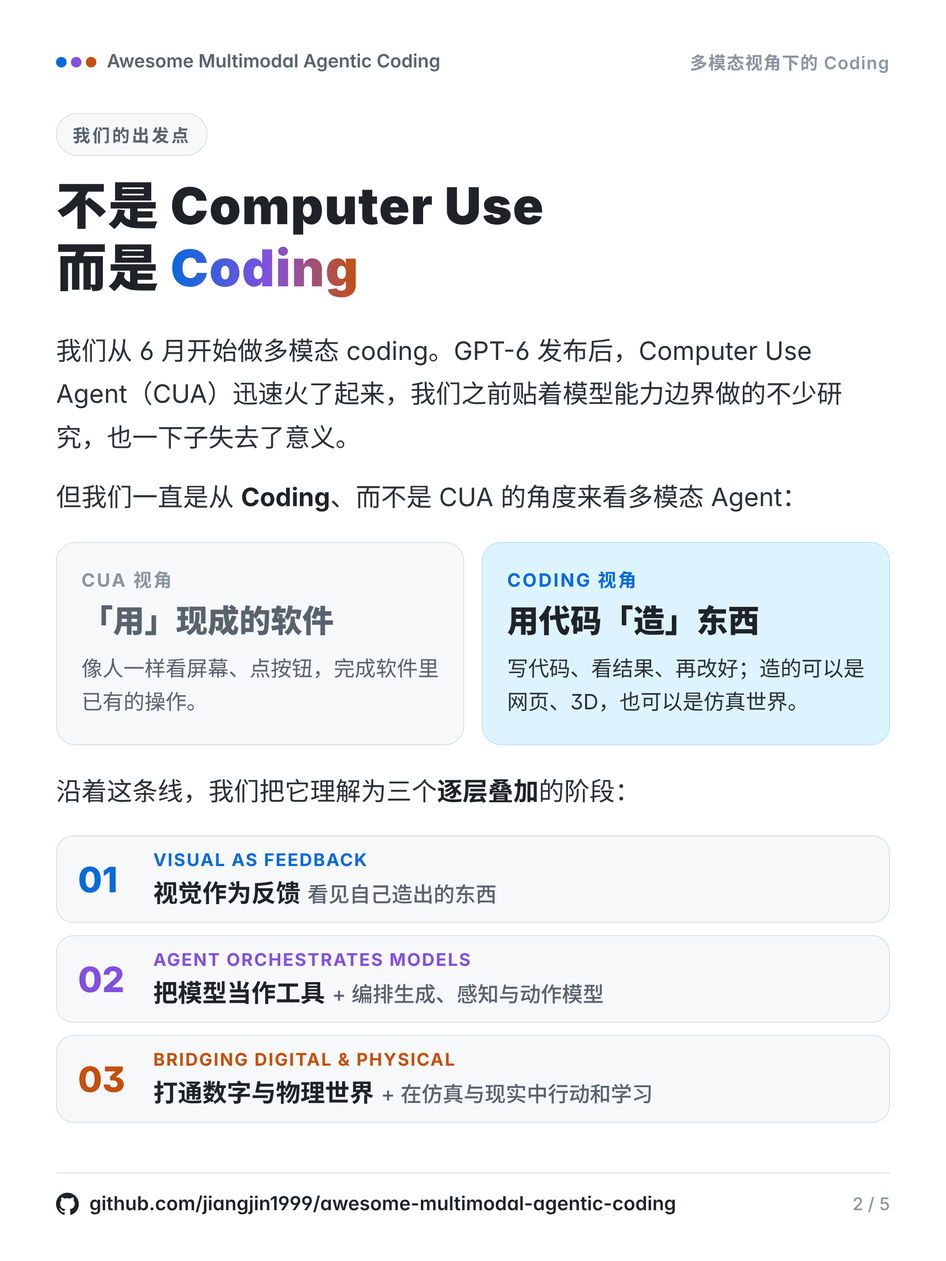
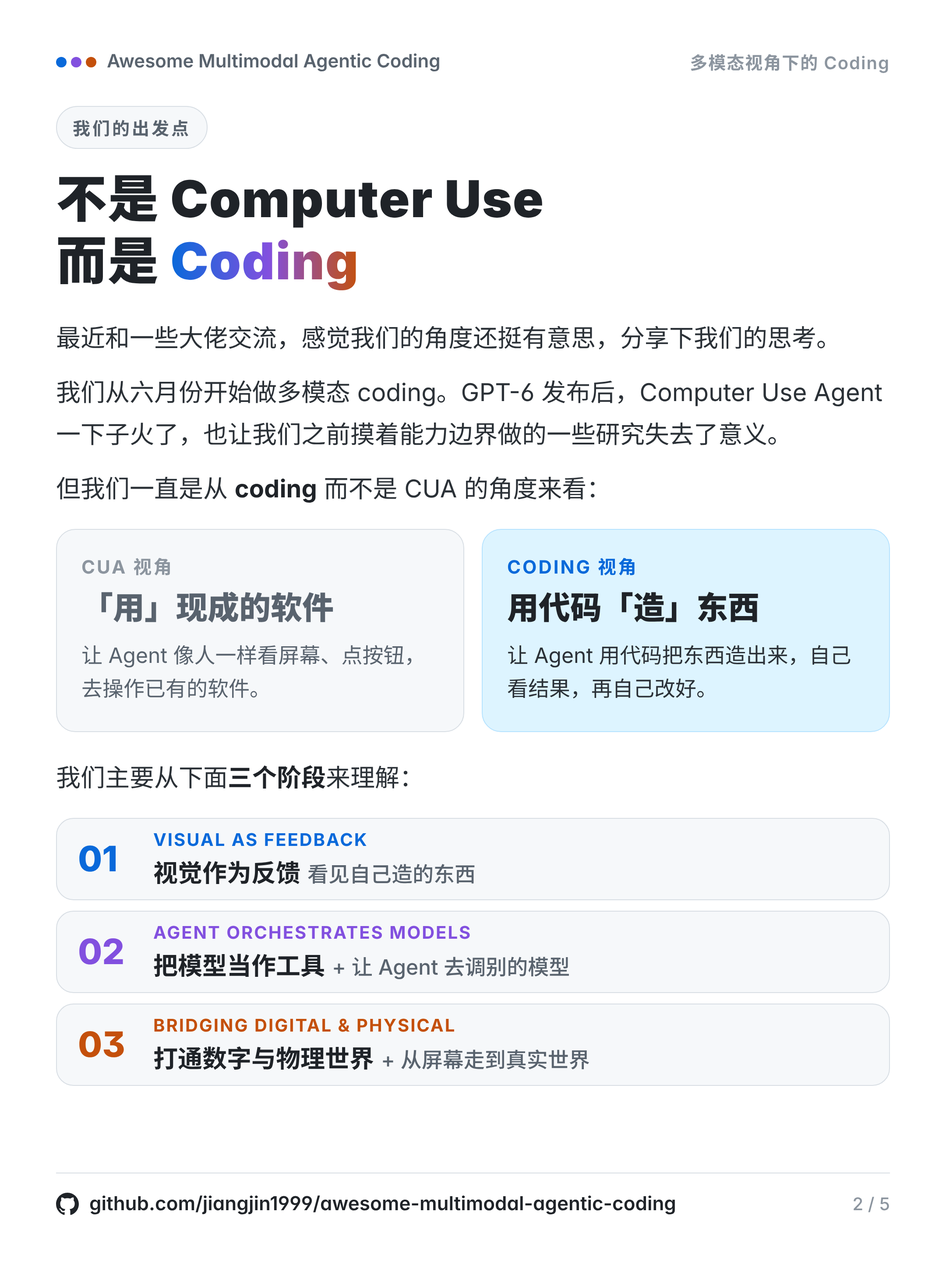
Make the promo copy conversational and closer to the original draft
Rewrite the post, the blurbs and the text in the images to keep the
author's own wording and a spoken tone, and keep the stage 3 section in
the same voice.

Claude-Session: https://claude.ai/code/session_01PZLRnhK6KdyKQiDbpVhFsH

Changed region(s): [[0.062, 0.0938, 0.9616, 0.6562], [0.062, 0.5938, 0.6824, 0.875], [0.0931, 0.4375, 0.4653, 0.5625]]

diff --git a/promo/gen.js b/promo/gen.js
@@ -103,6 +103,7 @@ b,strong{font-weight:700}
 .close{margin-top:30px;font-size:34px;font-weight:800;line-height:1.4}
 .s1 .body,.s2 .body{font-size:31px}.s1 .box,.s2 .box{margin-top:28px}.s1 .box .v,.s2 .box .v{font-size:29px}.s1 .tags,.s2 .tags{margin-top:30px}
 .s2 .body{font-size:32px}.s2 .box{margin-top:34px;padding:26px 30px 28px}.s2 .pair{margin-top:34px}.s2 .pair .box{margin-top:0}.s2 .box .v{font-size:30px}.s2 .tags{margin-top:38px}.s2 .tag{font-size:23px;padding:8px 18px}
+.why .head{margin-top:36px}.why .body{font-size:28px;margin-top:28px}.why .body p+p{margin-top:14px}.why .vs{margin-top:22px}.why .road{gap:12px;margin-top:22px}.why .step{padding:12px 24px}
 .s3 .lines .ln .dd{font-size:28px}.s3 .lines .ln{margin-top:24px}.s3 .box .v{font-size:28px}
 `;
 
@@ -119,15 +120,15 @@ const panelDiagram = (i) => crop('diag', 100 + 1020 * i + 40, 500, 880, 830, 350
 
 function cover(qrSvg) {
   const cols = [
-    ['01', '视觉作为反馈', '看见自己造出的东西，<br>coding loop 闭合'],
-    ['02', '把模型当作工具', '编排生成、感知<br>与动作模型'],
-    ['03', '打通数字与物理世界', '用代码构建仿真、<br>驱动机器人'],
+    ['01', '视觉作为反馈', '看见自己造的东西，<br>模型才能 loop 起来'],
+    ['02', '把模型当作工具', '让 Agent 去调生成、<br>感知和动作模型'],
+    ['03', '打通数字与物理世界', '用代码搭仿真、控机器人，<br>从屏幕走到真实世界'],
   ];
   return `<div class="page">
   ${topbar('<span class="agi">TOWARD PHYSICAL AGI</span>')}
   <h1 class="big"><span class="l1">多模态视角下的</span><span class="l2 grad">Coding</span></h1>
   <div class="sub">扩展 Agent 能力边界，最终通向物理 AGI</div>
-  <div class="idea">从 <b>Coding</b> 而非 CUA 的视角看多模态 Agent：<b>写代码 → 看结果 → 再改进</b></div>
+  <div class="idea">我们从 <b>Coding</b> 而不是 CUA 的角度看：<b>写代码 → 看结果 → 再改</b></div>
   ${crop('heroWrap', 96, 256, 3008, 1176, 952)}
   <div class="cols">${cols.map(([n, t, d], i) => `<div class="col"><div class="t"><span style="color:${C.acc[i]}">${n}</span>&nbsp; ${t}</div><div class="d">${d}</div></div>`).join('')}</div>
   <div class="foot">
@@ -140,25 +141,26 @@ function cover(qrSvg) {
 
 function why() {
   const steps = [
-    ['01', 'VISUAL AS FEEDBACK', '视觉作为反馈', '看见自己造出的东西'],
-    ['02', 'AGENT ORCHESTRATES MODELS', '把模型当作工具', '+ 编排生成、感知与动作模型'],
-    ['03', 'BRIDGING DIGITAL &amp; PHYSICAL', '打通数字与物理世界', '+ 在仿真与现实中行动和学习'],
+    ['01', 'VISUAL AS FEEDBACK', '视觉作为反馈', '看见自己造的东西'],
+    ['02', 'AGENT ORCHESTRATES MODELS', '把模型当作工具', '+ 让 Agent 去调别的模型'],
+    ['03', 'BRIDGING DIGITAL &amp; PHYSICAL', '打通数字与物理世界', '+ 从屏幕走到真实世界'],
   ];
-  return `<div class="page">
+  return `<div class="page why">
   ${topbar('<span class="pageno">多模态视角下的 Coding</span>')}
   <div class="head"><div>
     <span class="chip" style="background:${C.card};color:${C.sub};border:1.5px solid ${C.stroke}">我们的出发点</span>
     <div class="h1">不是 Computer Use<br>而是 <span class="grad">Coding</span></div>
   </div></div>
   <div class="body">
-    <p>我们从 6 月开始做多模态 coding。GPT-6 发布后，Computer Use Agent（CUA）迅速火了起来，我们之前贴着模型能力边界做的不少研究，也一下子失去了意义。</p>
-    <p>但我们一直是从 <em>Coding</em>、而不是 CUA 的角度来看多模态 Agent：</p>
+    <p>最近和一些大佬交流，感觉我们的角度还挺有意思，分享下我们的思考。</p>
+    <p>我们从六月份开始做多模态 coding。GPT-6 发布后，Computer Use Agent 一下子火了，也让我们之前摸着能力边界做的一些研究失去了意义。</p>
+    <p>但我们一直是从 <em>coding</em> 而不是 CUA 的角度来看：</p>
   </div>
   <div class="vs">
-    <div class="side" style="background:${C.card}"><div class="lab" style="color:${C.faint}">CUA 视角</div><div class="q" style="color:${C.sub}">「用」现成的软件</div><div class="d">像人一样看屏幕、点按钮，完成软件里已有的操作。</div></div>
-    <div class="side" style="background:${C.tint[0]};border-color:#B6E3FF"><div class="lab" style="color:${C.acc[0]}">CODING 视角</div><div class="q">用代码「造」东西</div><div class="d" style="color:#2B3137">写代码、看结果、再改好；造的可以是网页、3D，也可以是仿真世界。</div></div>
+    <div class="side" style="background:${C.card}"><div class="lab" style="color:${C.faint}">CUA 视角</div><div class="q" style="color:${C.sub}">「用」现成的软件</div><div class="d">让 Agent 像人一样看屏幕、点按钮，去操作已有的软件。</div></div>
+    <div class="side" style="background:${C.tint[0]};border-color:#B6E3FF"><div class="lab" style="color:${C.acc[0]}">CODING 视角</div><div class="q">用代码「造」东西</div><div class="d" style="color:#2B3137">让 Agent 用代码把东西造出来，自己看结果，再自己改好。</div></div>
   </div>
-  <div class="body" style="margin-top:28px"><p>沿着这条线，我们把它理解为三个<em>逐层叠加</em>的阶段：</p></div>
+  <div class="body" style="margin-top:28px"><p>我们主要从下面<em>三个阶段</em>来理解：</p></div>
   <div class="road">${steps.map(([n, e, z, d], i) => `<div class="step"><div class="n" style="color:${C.acc[i]}">${n}</div><div><div class="e" style="color:${C.acc[i]}">${e}</div><div class="z">${z}<span>${d}</span></div></div></div>`).join('')}</div>
   ${mini(2)}
 </div>`;
@@ -178,36 +180,36 @@ function stage(i, { en, title, plus, body, n }) {
 }
 
 const s1 = stage(0, {
-  n: 3, en: 'VISUAL AS FEEDBACK', title: '视觉反馈，<br>让 coding loop<br>跑起来', plus: '+ sees what it builds',
-  body: `<div class="body"><p>相比一般的 coding agent，多模态 coding agent 的关键是有<em>视觉反馈</em>：写代码 → 渲染或运行 → 观察结果 → 决定下一步怎么改。这一点极大地扩展了 Agent 的能力边界。</p></div>
+  n: 3, en: 'VISUAL AS FEEDBACK', title: '有了视觉反馈，<br>模型才能<br>loop 起来', plus: '+ sees what it builds',
+  body: `<div class="body"><p>相比于一般的 coding agent，多模态 coding agent 的关键就是有<em>视觉反馈</em>，这一点极大地扩展了 agent 的能力边界——只要能跑出来、看得见，就能放进这个 loop 里。</p></div>
   <div class="box"><div class="k" style="color:${C.acc[0]}">基础 · 原子多模态能力</div>
-    <div class="atoms"><div class="atom"><div class="a">Perception</div><div class="b">看得准</div></div><div class="atom"><div class="a">Grounding</div><div class="b">定位得准</div></div><div class="atom"><div class="a">Diff</div><div class="b">比得出差异</div></div></div>
-    <div class="v">精准的反馈，让 coding loop 能稳定地跑起来。</div></div>
-  <div class="box"><div class="k" style="color:${C.acc[0]}">从 workflow 到 agent</div>
-    <div class="v">以前通过各种 workflow 也能引入视觉反馈；但在 Agent 场景下，模型不再只是做 VQA，而是<b>自主地对比、定位问题</b>，并对整个「多模态 repo」（代码 + 素材 + 渲染结果）持续优化。</div></div>
+    <div class="atoms"><div class="atom"><div class="a">Perception</div><div class="b">看得准</div></div><div class="atom"><div class="a">Grounding</div><div class="b">找得到</div></div><div class="atom"><div class="a">Diff</div><div class="b">比得出差别</div></div></div>
+    <div class="v">反馈够精准，coding loop 才能更好地跑起来。</div></div>
+  <div class="box"><div class="k" style="color:${C.acc[0]}">不只是 VQA 了</div>
+    <div class="v">在这之前，通过各种 workflow 也能带来 visual feedback；但在 agent 场景下，模型不只是做 VQA 了，它可以<b>自主地去对比</b>，并对整个「多模态 repo」进行优化。</div></div>
   <div class="tags">${['网页与 UI', '图表与科学可视化', '文档 · 幻灯片 · 海报', '3D 与 CAD', '游戏'].map((t) => `<span class="tag">${t}</span>`).join('')}</div>`,
 });
 
 const s2 = stage(1, {
-  n: 4, en: 'AGENT ORCHESTRATES MODELS', title: '编排模型，<br>进一步扩展<br>能力边界', plus: '+ calls models as tools',
-  body: `<div class="body"><p>视觉反馈让 Agent 拥有了巨大的多模态任务空间。但如果 Agent 只能自己看、自己做，不仅会有长上下文带来的幻觉，还可能需要极大量的计算。<em>把其他模型当作工具调用</em>，可以有效改善这两点。</p></div>
+  n: 4, en: 'AGENT ORCHESTRATES MODELS', title: '让 Agent<br>去调<br>别的模型', plus: '+ calls models as tools',
+  body: `<div class="body"><p>视觉反馈让 agent 拥有了极大的多模态任务空间。但如果 agent 只能自己看、自己做，不仅会有长上下文带来的幻觉，也可能需要极大量的计算——<em>把其他模型当工具来调</em>，就能有效改善。</p></div>
   <div class="pair">
-    <div class="box"><div class="k" style="color:${C.acc[1]}">输入端 · 替 Agent 看</div><div class="v">调用更擅长的感知模型（检测、分割、深度、重建……），从不同维度提供观察。</div></div>
-    <div class="box"><div class="k" style="color:${C.acc[1]}">输出端 · 替 Agent 做</div><div class="v">调用生成模型做 mask 重绘、基于白模给出构图；调用 action model 操控机械臂。</div></div>
+    <div class="box"><div class="k" style="color:${C.acc[1]}">输入 · 帮 Agent 看</div><div class="v">用更擅长的模型，从不同维度给 agent 提供观察，比如检测、分割、深度、重建。</div></div>
+    <div class="box"><div class="k" style="color:${C.acc[1]}">输出 · 帮 Agent 做</div><div class="v">调生成模型来做 mask 重绘、基于白模给出构图；调 action model 来操控机械臂。</div></div>
   </div>
-  <div class="box" style="background:${C.tint[1]};border-color:#D8CCF8"><div class="v"><b>代码是胶水：</b>Agent 用代码选择、组合这些模型，并根据反馈修改整个工作流——既扩展了能力边界，也提高了效率。</div></div>
+  <div class="box" style="background:${C.tint[1]};border-color:#D8CCF8"><div class="v"><b>一句话：</b>Agent 负责想和写代码，专业的「看」和「做」交给更擅长的模型——能力边界更大，效率也更高。</div></div>
   <div class="tags">${['图像生成', '视频生成', '3D 生成', '世界模型', '感知模型', '动作模型'].map((t) => `<span class="tag">${t}</span>`).join('')}</div>`,
 });
 
 const s3 = stage(2, {
-  n: 5, en: 'BRIDGING DIGITAL &amp; PHYSICAL', title: '用代码打通<br>数字世界<br>与物理世界', plus: '+ acts in simulation and reality',
-  body: `<div class="body" style="margin-top:28px"><p>前两个阶段不断扩展 coding agent 在数字世界里的能力边界；第三阶段，这个闭环走进物理世界。这也是仓库里最大、增长最快的部分。</p></div>
+  n: 5, en: 'BRIDGING DIGITAL &amp; PHYSICAL', title: '把 loop<br>带进<br>物理世界', plus: '+ acts in simulation and reality',
+  body: `<div class="body" style="margin-top:28px"><p>前两个阶段扩展的，都还是数字世界里的能力边界。第三个阶段，我们想把 loop 带进物理世界——这也是仓库里最大、涨得最快的一块。</p></div>
   <div class="lines">
-    <div class="ln"><div class="no" style="color:${C.acc[2]}">①</div><div><div class="tt">代码驱动行动<span style="color:${C.acc[2]}">DIGITAL → PHYSICAL</span></div><div class="dd">通过代码调用感知与运动接口操控机器人，观察相机与力反馈，再改下一步动作：「看结果改代码」变成「看动作结果改策略」。</div></div></div>
-    <div class="ln"><div class="no" style="color:${C.acc[2]}">②</div><div><div class="tt">代码构建仿真<span style="color:${C.acc[2]}">REAL → SIM</span></div><div class="dd">从真实视频与观测出发，把场景、物体、关节和物理参数写成可执行的仿真器；它可以和真实录像对照，也可以改条件重跑。</div></div></div>
-    <div class="ln"><div class="no" style="color:${C.acc[2]}">③</div><div><div class="tt">在仿真里练，回现实用<span style="color:${C.acc[2]}">SIM → REAL</span></div><div class="dd">在可验证的环境里造数据、积累经验与 skills、预演失败恢复，甚至只用仿真轨迹做后训练，再把能力带回真机。</div></div></div>
+    <div class="ln"><div class="no" style="color:${C.acc[2]}">①</div><div><div class="tt">用代码去动手<span style="color:${C.acc[2]}">DIGITAL → PHYSICAL</span></div><div class="dd">让 agent 自己写 Python、调 ROS 控制机器人，看相机画面和力反馈再改下一步。「看结果改代码」变成了「看动作结果改策略」。</div></div></div>
+    <div class="ln"><div class="no" style="color:${C.acc[2]}">②</div><div><div class="tt">把真实世界「搬」进仿真<span style="color:${C.acc[2]}">REAL → SIM</span></div><div class="dd">拿一段真实视频，让 agent 把场景、物体、关节、物理参数写成能跑的仿真器，还能和录像对比、改条件再跑一遍。</div></div></div>
+    <div class="ln"><div class="no" style="color:${C.acc[2]}">③</div><div><div class="tt">在仿真里练，再回到现实<span style="color:${C.acc[2]}">SIM → REAL</span></div><div class="dd">自己造数据、攒经验和 skills，先在数字孪生里把失败恢复练一遍，甚至只靠仿真轨迹做后训练，再带回真机。</div></div></div>
   </div>
-  <div class="box" style="background:${C.tint[2]};border-color:#FFD8B5;margin-top:24px"><div class="v"><b>构建可验证的环境 → 收集交互经验 → 提升 Agent。</b>代码可执行、可检查、可编辑、可组合，是连接感知、生成、行动与仿真的共同语言——这条路最终通向物理 AGI。</div></div>`,
+  <div class="box" style="background:${C.tint[2]};border-color:#FFD8B5;margin-top:24px"><div class="v"><b>说到底是同一个 loop：</b>搭能验证的环境 → 收集交互经验 → 让 agent 变强。代码能跑、能查、能改、能组合，刚好把感知、生成、行动和仿真串起来——这条路最终通向物理 AGI。</div></div>`,
 });
 
 (async () => {

diff --git a/promo/post.zh-CN.md b/promo/post.zh-CN.md
@@ -9,42 +9,43 @@
 ```text
 多模态视角下的 Coding
 
-GPT-6 之后，Computer Use Agent 火了。但我们一直从 Coding、而不是 CUA 的角度看多模态 Agent：
-CUA 关心 Agent 怎么「用」现成的软件；我们关心 Agent 怎么用代码「造」东西，看见结果，再把它改好。
+最近和一些大佬交流，感觉我们的角度还挺有意思，分享一下～
 
-我们把这条路分成三个逐层叠加的阶段：
-1⃣ Visual as Feedback：看见自己造出的东西，coding loop 闭合起来
-2⃣ Agent Orchestrates Models：把生成、感知、动作模型当作工具调用
-3⃣ Bridging Digital & Physical：用代码构建仿真、驱动机器人，Real2Sim2Real
+GPT-6 之后 Computer Use Agent 火了，但我们一直是从 coding 而不是 CUA 的角度来看：不只是让 Agent 去「用」软件，而是让它用代码把东西「造」出来，自己看结果，再自己改。
 
-扩展 Agent 的能力边界，最终通向物理 AGI。
-我们把相关工作整理成了 Awesome Multimodal Agentic Coding：664 项工作，中 / 英 / 日三语，持续更新 👇
+我们把这条路分成三步：
+1⃣ Visual as Feedback：有了视觉反馈，模型才能真正 loop 起来
+2⃣ Agent Orchestrates Models：让 Agent 去调生成、感知、动作模型，能力边界再往外扩
+3⃣ Bridging Digital & Physical：用代码搭仿真、控机器人，从屏幕走到真实世界
+
+扩展 Agent 能力边界，最终通向物理 AGI。
+相关工作都整理在这儿了（664 项，中英日三语，持续更新）👇
 https://github.com/jiangjin1999/awesome-multimodal-agentic-coding
 ```
 
 ### 中文短版（X 免费账号，280 字符限制内）
 
-X 上一个汉字算 2 个字符，链接固定算 23 个。这一版约 230 / 280。
+X 上一个汉字算 2 个字符，链接固定算 23 个。这一版约 209 / 280。
 
 ```text
 多模态视角下的 Coding：
-不从 Computer Use，而从 Coding 看多模态 Agent，分三个阶段：
-1 视觉反馈，让 coding loop 闭合
-2 编排模型，把模型当作工具
-3 用代码打通仿真与现实
-扩展 Agent 能力边界，最终通向物理 AGI 👇
+我们一直从 coding 而不是 CUA 的角度看多模态 Agent，分三步：
+1 有了视觉反馈，模型才能 loop 起来
+2 让 Agent 去调别的模型
+3 用代码打通仿真和现实
+最终通向物理 AGI 👇
 https://github.com/jiangjin1999/awesome-multimodal-agentic-coding
 ```
 
-### English（X，约 272 / 280）
+### English（X，约 278 / 280）
 
 ```text
-Coding, seen through a multimodal lens:
-agents that write code, see what it builds, and improve it.
+We look at multimodal agents from a coding angle, not computer use:
+agents write code, see what it builds, and fix it.
 01 Visual as feedback
 02 Orchestrating models as tools
 03 Bridging digital & physical worlds
-Toward physical AGI. 664 works, updated continuously 👇
+Toward physical AGI. 664 works, growing 👇
 https://github.com/jiangjin1999/awesome-multimodal-agentic-coding
 ```
 
@@ -54,9 +55,9 @@ https://github.com/jiangjin1999/awesome-multimodal-agentic-coding
 |---|---|---|
 | 1 | [`00-cover.png`](images/00-cover.png) | 封面：大字「多模态视角下的 Coding」、仓库头图、三阶段、链接与二维码 |
 | 2 | [`01-why-coding.png`](images/01-why-coding.png) | 出发点：不是 Computer Use，而是 Coding |
-| 3 | [`02-stage1-visual-feedback.png`](images/02-stage1-visual-feedback.png) | 01 Visual as Feedback |
-| 4 | [`03-stage2-orchestrate-models.png`](images/03-stage2-orchestrate-models.png) | 02 Agent Orchestrates Models |
-| 5 | [`04-stage3-digital-physical.png`](images/04-stage3-digital-physical.png) | 03 Bridging Digital & Physical Worlds |
+| 3 | [`02-stage1-visual-feedback.png`](images/02-stage1-visual-feedback.png) | 01 有了视觉反馈，模型才能 loop 起来 |
+| 4 | [`03-stage2-orchestrate-models.png`](images/03-stage2-orchestrate-models.png) | 02 让 Agent 去调别的模型 |
+| 5 | [`04-stage3-digital-physical.png`](images/04-stage3-digital-physical.png) | 03 把 loop 带进物理世界 |
 
 尺寸都是 2160 × 2880（3:4）。小红书、即刻可以 5 张全发。X 每条最多 4 张：主帖放 1、3、4、5，第 2 张的内容已经写进正文；也可以把第 2 张放进回复。
 
@@ -66,62 +67,57 @@ https://github.com/jiangjin1999/awesome-multimodal-agentic-coding
 
 ### 多模态视角下的 Coding｜Awesome Multimodal Agentic Coding
 
-**扩展 Agent 的能力边界，最终通向物理 AGI**
+**扩展 Agent 能力边界，最终通向物理 AGI**
 
-最近和几位大佬交流，大家觉得我们看问题的角度还挺有意思，所以整理出来分享一下。
+最近和一些大佬交流，感觉我们的角度还挺有意思的，所以分享下我们的思考。
 
-我们从 6 月开始做多模态 coding 相关的任务。GPT-6 发布后，Computer Use Agent（CUA）迅速火了起来，我们之前贴着模型能力边界做的不少研究，也一下子失去了意义。
+我们从六月份开始做多模态 coding 相关的任务。GPT-6 发布后，Computer Use Agent 一下子火了，也让我们之前摸着能力边界做的一些研究失去了意义。
 
-但我们一直是从 **Coding**、而不是 CUA 的角度来看多模态 Agent：
+但我们一直是从 coding 的角度、而不是 CUA 的角度来看这件事。说白了，CUA 关心的是 Agent 怎么去「用」现成的软件；我们更关心的是 Agent 怎么用代码把东西「造」出来，自己看结果，再自己改好。
 
-- **CUA 视角**：Agent 像人一样「用」现成的软件，看屏幕、点按钮，完成软件里已有的操作；
-- **Coding 视角**：Agent 用代码「造」东西，看见运行的结果，再把它改好。造出的可以是网页、3D，也可以是仿真世界。
+我们主要从下面三个阶段来理解。
 
-沿着这条线，我们把多模态 Agentic Coding 理解为三个逐层叠加的阶段。
+#### 1 - Visual as Feedback：有了视觉反馈，模型才能 loop 起来
 
-#### 01 Visual as Feedback：视觉反馈，让 coding loop 跑起来
+视觉反馈和 perception 能力的提升，让模型可以真正 loop 起来。
 
-相比一般的 coding agent，多模态 coding agent 的关键是有**视觉反馈**：写代码 → 渲染或运行 → 观察结果 → 决定下一步怎么改。这一点极大地扩展了 Agent 的能力边界：网页与 UI、图表、文档与幻灯片、3D 与 CAD、游戏……凡是运行出来能被看见的东西，都可以进入这个闭环。
+相比于一般的 coding agent，多模态 coding agent 的关键就是有视觉反馈，这一点极大地扩展了 agent 的能力边界。网页、图表、PPT、3D/CAD、游戏……只要能跑出来、看得见，就能放进这个 loop 里。
 
-其中，perception、grounding、diff 等原子多模态能力是基础：看得准、定位得准、比得出差异，反馈才精准，coding loop 才能稳定地跑起来。
+其中，perception、grounding 以及 diff 这些原子多模态能力是基础：看得准、找得到、比得出差别。反馈够精准，coding loop 才能更好地跑起来。
 
-在此之前，通过各种 workflow 也能引入视觉反馈；但在 Agent 场景下，模型不再只是做 VQA，而是能自主地对比、定位问题，并对整个「多模态 repo」（代码 + 素材 + 渲染结果）持续优化。
+当然，在这之前通过各种 workflow 也能带来 visual feedback；但在 agent 场景下，模型不只是做 VQA 了，它可以自主地去对比，并且对整个「多模态 repo」进行优化。
 
-#### 02 Agent Orchestrates Models：编排模型，进一步扩展能力边界
+#### 2 - Agent Orchestrates Models：让 Agent 去调别的模型
 
-视觉反馈让 Agent 拥有了巨大的多模态任务空间。但如果 Agent 只能自己看、自己做，不仅会有长上下文带来的幻觉，还可能需要极大量的计算。把其他模型当作工具调用，可以有效改善这两点。
+Agent 去 orchestrate 各种模型（生成模型、action model 等），进一步扩展了能力边界，也提高了效率。
 
-Orchestration 同时体现在输入和输出两端：
+视觉反馈让 agent 拥有了极大的多模态任务空间。但如果 agent 只能自己看、自己做，不仅会有长上下文带来的幻觉，也可能需要极大量的计算；把其他模型当作工具来调，就能有效改善。
 
-- **输入端**：调用更擅长的模型（检测、分割、深度、重建等感知模型），从不同维度提供观察；
-- **输出端**：调用生成模型做 mask 重绘、基于白模给出构图，或生成视频、3D 与可交互的世界；也可以调用 action model 来操控机械臂。
+orchestration 既体现在输入，也体现在输出：
 
-代码在这里是胶水：Agent 用代码选择、组合这些模型，并根据反馈修改整个工作流。这既扩展了能力边界，也提高了效率。
+- **输入**：用更擅长的模型，从不同维度给 agent 提供观察，比如检测、分割、深度、重建；
+- **输出**：调生成模型来做 mask 重绘、基于白模给出构图；也可以调 action model 来操控机械臂。
 
-#### 03 Bridging Digital & Physical Worlds：用代码打通数字世界与物理世界
+一句话：agent 负责想和写代码，专业的「看」和「做」交给更擅长的模型。
 
-前两个阶段不断扩展 coding agent 在数字世界里的能力边界；到第三个阶段，这个闭环走进了物理世界。这也是我们仓库目前最大、增长最快的部分：664 项工作中有 318 项属于这一阶段，2026 年下半年新增的就有 200 项。
+#### 3 - Bridging Digital World & Physical World：把 loop 带进物理世界
 
-我们看到三条主线：
+前两个阶段不断扩展着 coding agent 的能力边界，但都还在数字世界里。第三个阶段，我们想把这个 loop 带进物理世界。这也是我们仓库里现在最大、涨得最快的一块：664 项工作里有 318 项在这个阶段，光 2026 年下半年就新增了 200 项。
 
-**① 代码驱动行动（Digital → Physical）。** 从 Code as Policies 开始，Agent 就在用代码调用感知与运动接口来操控机器人。最近一批 robot-use agent 和 embodied harness 让通用 coding agent 直接写 Python、调 ROS，观察相机画面与力反馈，再修改下一步动作。阶段一的「看结果改代码」，在这里变成了「看动作结果改策略」。同样的闭环也延伸到 PCB 布线、软体机器人设计和科学实验。
+我们觉得大概有三件事在同时发生：
 
-**② 代码构建仿真（Real → Sim）。** Agent 从真实视频和观测出发，把场景、物体、关节和物理参数写成可执行的仿真器。仿真器本身就是一个「多模态 repo」：可以和真实录像对照，也可以改变条件重新跑。为此我们整理了一套仿真器质量的检验层级：从「看起来像」「静止时合理」「能交互」「动起来对」，一直到「在仿真里排第一的策略，到真机上是否仍排第一」，每一层拆穿一种「假仿真」。
+**一是用代码去动手（Digital → Physical）。** 从 Code as Policies 开始，大家就在用代码调感知和运动接口来控制机器人。最近一批 robot-use agent 更直接，让通用 coding agent 自己写 Python、调 ROS，看相机画面和力反馈，再改下一步动作。第一阶段的「看结果改代码」，到这里就变成了「看动作结果改策略」。PCB 布线、软体机器人设计、科学实验，也都开始用上了这套 loop。
 
-**③ 在仿真里练，回到现实用（Sim → Real）。** 有了可验证的环境，Agent 就能自己造数据，积累经验、记忆与 skills，在数字孪生里先预演失败恢复，甚至只靠仿真里的成功轨迹给小模型做后训练，再把能力带回真机。
+**二是用代码把真实世界「搬」进仿真（Real → Sim）。** 拿一段真实视频，让 agent 把场景、物体、关节、物理参数写成能跑的仿真器。仿真器本身就是一个「多模态 repo」：能拿来和真实录像对比，也能改改条件再跑一遍。不过仿真到底像不像，是个大问题。所以我们在仓库里整理了一套检验层级：从「看起来像」，到「放着不动合理」「碰一下有反应」「动起来对」，最后到「在仿真里最好的策略，到真机上是不是也最好」。每一层拆穿一种「假仿真」。
 
-从代码的角度看，这三条线是同一个闭环：**构建可验证的环境 → 收集交互经验 → 提升 Agent**。代码可执行、可检查、可编辑、可组合，因此能成为连接感知、生成、行动与仿真的共同语言。
+**三是在仿真里练，再回到现实（Sim → Real）。** 有了能验证的环境，agent 就可以自己造数据，攒经验和 skills，先在数字孪生里把失败恢复练一遍，甚至只靠仿真里的成功轨迹给小模型做后训练，再把能力带回真机。
 
-#### 结语
+这三件事其实是同一个 loop：搭一个能验证的环境 → 在里面收集交互经验 → 让 agent 变强。代码能跑、能检查、能改、能组合，刚好可以把感知、生成、行动和仿真串起来。
 
-三个阶段是逐层叠加的：
+#### 最后
 
-- **01** 看见自己造出的东西；
-- **02** + 把模型当作工具调用；
-- **03** + 在仿真与现实中行动和学习。
+三个阶段是一层层叠上去的：先看见自己造的东西，再学会调别的模型，最后在仿真和现实里动手、学习。我们相信，沿着「写代码 → 看结果 → 再改」这条路，agent 会一步步从屏幕走进真实世界，最终通向物理 AGI。
 
-我们相信，这条「写代码 → 看结果 → 再改进」的路径，会一步步把 Agent 从屏幕里带到真实世界，最终通向物理 AGI。
-
-我们把相关工作整理成了 **Awesome Multimodal Agentic Coding**：目前收录 664 项工作（论文、工具、数据集与 Demo），按三个阶段、19 个方向组织，提供中 / 英 / 日三语，并持续更新。欢迎 star、提 issue 推荐工作，也欢迎直接来找我们交流。
+我们把相关的工作都整理在了 **Awesome Multimodal Agentic Coding** 里，目前 664 项（论文、工具、数据集、Demo），按三个阶段、19 个方向组织，中英日三语，会持续更新。欢迎 star、提 issue 推荐工作，也欢迎来找我们聊～
 
 🔗 https://github.com/jiangjin1999/awesome-multimodal-agentic-coding
